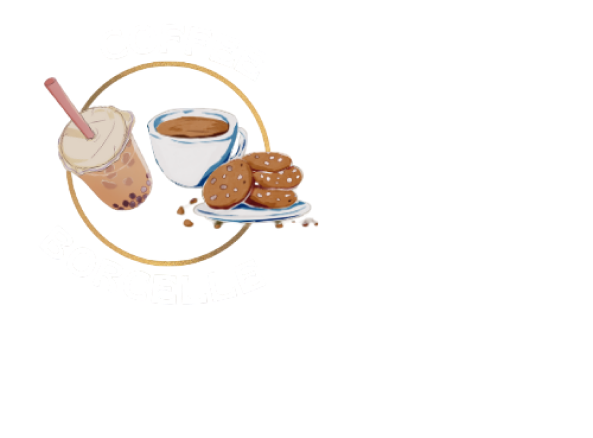
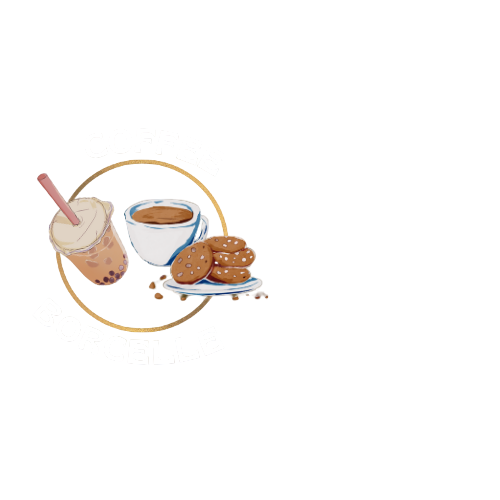
Modified: HomeSection finished, Adding: Responsive

Changed region(s): [[0.06, 0.1187, 0.54, 0.653], [0.18, 0.6233, 0.33, 0.6826], [0.15, 0.5936, 0.18, 0.6233]]

diff --git a/src/pages/HomeSection.css b/src/pages/HomeSection.css
@@ -9,12 +9,101 @@
 .image-removebg-preview-2-1 {
   position: absolute;
   top: 0px;
-  left: 1260px;
+  left: 1278px;
   width: 643px;
   height: 568px;
   object-fit: cover;
   }
 
+
+  .borcelle-2-removebg-preview-icon {
+    width: 559px;
+    height: 559px;
+    left: 131px;
+    bottom: 122px;
+    position: relative;
+    max-width: 100%;
+    overflow: hidden;
+    object-fit: cover;
+  }
+
+
+  .coffee-makes-mood {
+    position: absolute;
+    top: 273px;
+    left: 459px;
+    font-size: 128px;
+    font-family: Pompiere;
+    color: rgba(255, 255, 255, 0.8);
+    display: inline-block;
+    width: 804px;
+    height: 141px;
+  }
+
+  .indulge-in-every {
+    margin: 0;
+  }
+  
+  .indulge-in-every-container {
+    position: absolute;
+    top: 424px;
+    left: 459px;
+    display: inline-block;
+    width: 835px;
+    height: 59px;
+    text-align: left;
+    font-size: 36px;
+    color: rgba(255, 255, 255, 0.9);
+    font-family: Galada;
+  }
+
+  .menu-section{
+    position: absolute;
+    top: 150px;
+    left: 478px;
+    width: 952px;
+    height: 62.6px;
+    font-size: 24px;
+    color: #fff;
+    font-family: Inter;
+    background-color: #6f4436;
+    border-radius: 10px;
+    display: flex;
+    align-items: center;
+    justify-content: center;
+  }
+  
+  .menu-list ul{
+    list-style: none;
+    padding: 0;
+    margin: 0;
+    display: flex;
+    gap: 40px;
+    
+  }
+
+  .menu-item{
+    text-decoration: none;
+    padding: 10px 15px;
+    border-radius: 10px;
+    transition: background-color 0.1s ease, color 0.1s ease;
+  }
+  .menu-item a{
+    text-decoration: none;
+    color: #fff;
+  }
+  
+  .menu-item:hover,
+  .menu-item:focus {
+    background-color: #fff;
+
+  }
+  
+  .menu-item a:hover{
+    text-decoration: none;
+    color: #220404;
+  }
+  
 
 @media only screen and (max-width: 1368px) {
   .bg-home-page {
@@ -23,8 +112,54 @@
 
   .image-removebg-preview-2-1 {
     height: 368px;
-    left: -1px;
-    object-fit: contain;
+    width: 343px;
+    left: 960px;
+    object-fit: cover;
+    }
+
+    .borcelle-2-removebg-preview-icon {
+      width: 359px;
+      height: 359px;
+      left: 60px;
+      bottom: 70px;
+      position: relative;
+      max-width: 100%;
+      overflow: hidden;
+      object-fit: cover;
+    }
+    
+    .coffee-makes-mood {
+      top: 173px;
+      left: 259px;
+      font-size: 118px;
+      font-family: Pompiere;
+
+    }
+
+    .indulge-in-every {
+      margin: 0;
+    }
+    
+    .indulge-in-every-container {
+      top: 304px;
+      left: 259px;
+      font-size: 32px;
+    }
+  
+    .menu-section{
+      top: 75px;
+      left: 278px;
+      width: 742px;
+      height: 42.6px;
+      font-size: 16px;
+    }
+
+    .menu-list ul{
+      gap: 60px;
+      
+    }
+    .menu-item{
+      padding: 8px 5px;
     }
   
 }

diff --git a/src/components/HomeSection.jsx b/src/components/HomeSection.jsx
@@ -9,12 +9,13 @@ const HomeSection = () => {
     <div className="home-section">
       <div className="bg-home-page"> 
       <img className="image-removebg-preview-2-1" alt="" src={imageremovebg} />
+      <img className="borcelle-2-removebg-preview-icon" alt="" src={borcell2} />
       </div>
       <div className="indulge-in-every-container">
-        <p className="indulge-in-every">Indulge in Every Sip: Experience the Richness of Coffee!</p>
+        <p className="indulge-in-every">&quot;Indulge in Every Sip: Experience the Richness of Coffee!&quot;</p>
       </div>
       <div className="coffee-makes-mood">Coffee Makes Mood</div>
-      <img className="borcelle-2-removebg-preview-icon" alt="" src={borcell2} />
+
       <div className="menu-section">
         <nav className="menu-list">
           <ul>
